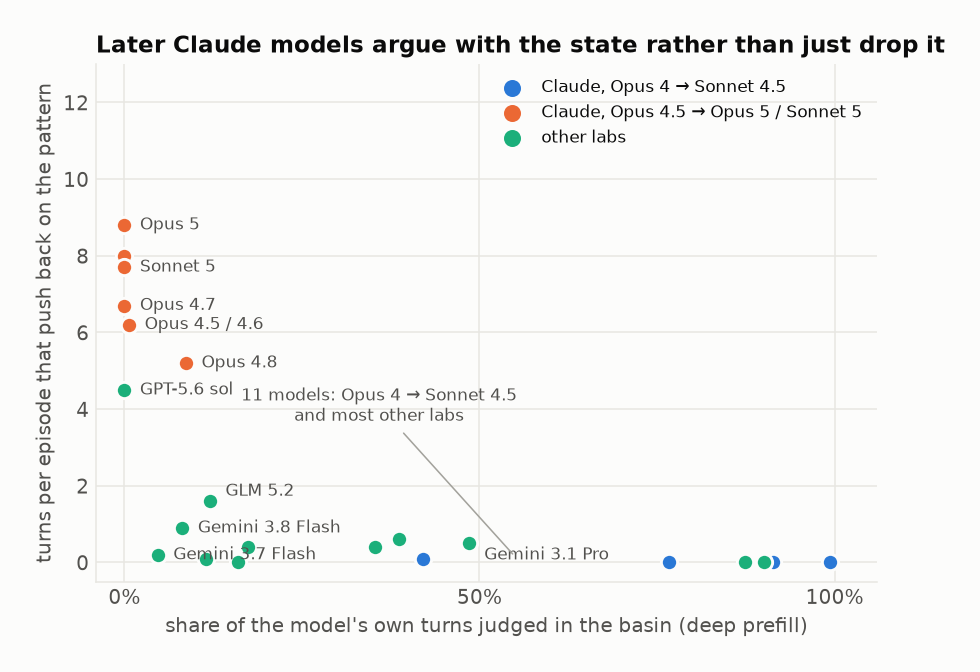
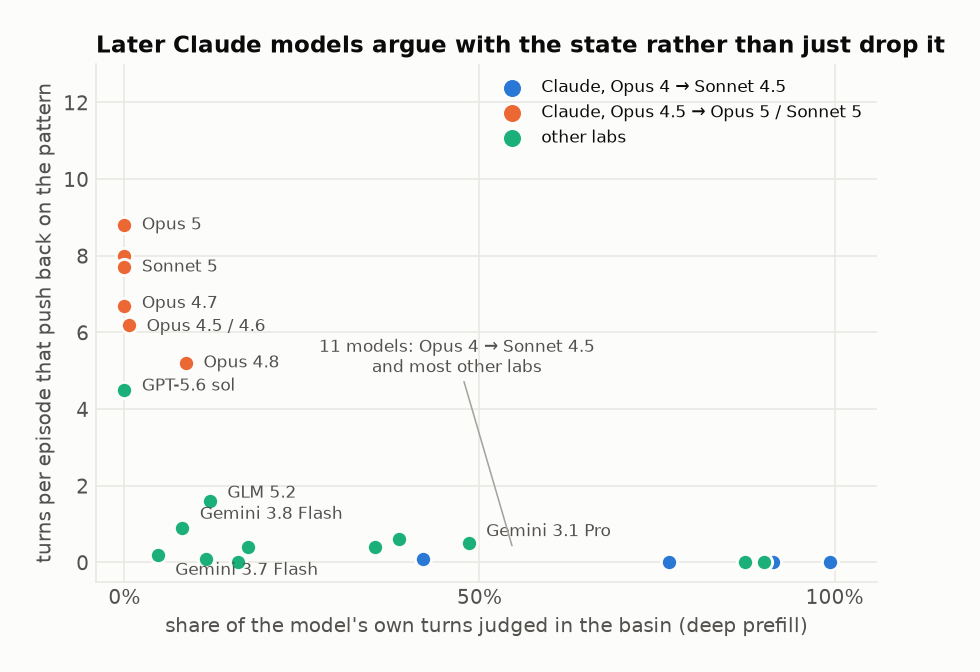
Figures rebuilt on v4 judge: Gemini Flash back in the heatmap, label collisions fixed
The v4 closure label separates wind-down from content at the turn level, which
was the reason Flash was excluded from the full-grid heatmap.

diff --git a/plots.py b/plots.py
@@ -161,11 +161,17 @@ def _heatmap(cells, models, conds, col_labels, title, note, fname, figsize):
     savefig(fig, fname)
 
 
+# Was {"gemini-3.8-flash"}: its "in" turns were almost all farewell/silence and the
+# pre-onset cell could not be trusted. The v4 judge (2026-09-04) separates wind-down
+# from content at the turn level (the `closure` label), so Flash is back in.
+HEATMAP_EXCLUDE: set[str] = set()
+
+
 def fig_basin_heatmap(cells):
     """Fig 2a: the models run on the full grid (control + pre + onset + deep); any
     extra cut in COND (e.g. the 8-turn philo cut) is shown where it exists."""
     core = ["control", "opus4_seed_4_pre", "opus4_seed_4_onset", "opus4_seed_4_deep"]
-    models = [m for m in ORDER if all((m, c) in cells for c in core)]
+    models = [m for m in ORDER if m not in HEATMAP_EXCLUDE and all((m, c) in cells for c in core)]
     _heatmap(cells, models, COND, [COND_LABEL[c] for c in COND],
              "Full grid: episodes that continued (or drifted into) the attractor",
              "philo = 8 turns (philosophy only); pre = 12 (mutual gratitude, no emoji yet); onset = 16 "
@@ -303,6 +309,41 @@ def fig_timeline(cells):
     savefig(fig, "fig6_timeline.png")
 
 
+def fig_claude_family(cells):
+    """The Claude family only: no-prefill control vs deep prefill, rows in release order with dates."""
+    import datetime as dt
+    dates = json.loads(Path("seeds/model_dates.json").read_text())
+    models = [m for m in CLAUDE_OLD + CLAUDE_NEW if (m, DEEP) in cells]
+    models.sort(key=lambda m: dates.get(m, "9999"))
+    cols = [("control", "no prefill\n(20 turns on its own)"), (DEEP, "deep prefill\n(30 turns of Opus 4)")]
+    fig, ax = plt.subplots(figsize=(6.0, 5.6))
+    grid = [[(rate(cells, m, c)[0] / rate(cells, m, c)[1]) if rate(cells, m, c)[1] else float("nan") for c, _ in cols] for m in models]
+    im = ax.imshow(grid, cmap=SEQ, vmin=0, vmax=1, aspect="auto")
+    ax.set_xticks(range(len(cols))); ax.set_xticklabels([l for _, l in cols])
+    ax.xaxis.set_ticks_position("top"); ax.xaxis.set_label_position("top")
+    def rowlabel(m):
+        d = dt.date.fromisoformat(dates[m]).strftime("%b %Y")
+        return f"{NAME[m]}   {d}"
+    ax.set_yticks(range(len(models))); ax.set_yticklabels([rowlabel(m) for m in models], fontfamily="monospace", fontsize=9.5)
+    for i, m in enumerate(models):
+        for j, (c, _) in enumerate(cols):
+            k, n = rate(cells, m, c)
+            ax.text(j, i, f"{k}/{n}" if n else "not run", ha="center", va="center", fontsize=10,
+                    color="white" if n and k / n > 0.55 else (INK if n else MUTED))
+    brk = next(i for i, m in enumerate(models) if m in CLAUDE_NEW) - 0.5
+    ax.axhline(brk, color=ORANGE, lw=2.2)
+
+    for spine in ax.spines.values():
+        spine.set_visible(False)
+    ax.tick_params(length=0)
+    ax.set_title("The Claude family: enters the state on its own, and continues it when handed it", pad=16, fontsize=11)
+    cb = fig.colorbar(im, ax=ax, fraction=0.05, pad=0.16)
+    cb.set_ticks([0, 0.5, 1]); cb.set_ticklabels(["0%", "50%", "100%"]); cb.outline.set_visible(False)
+    fig.text(0.01, 0.005, "Episodes that entered / continued the state, over episodes run. Orange line: Opus 4.5 and later. Dates: OpenRouter listing.",
+             fontsize=8.5, color=INK2)
+    savefig(fig, "fig7_claude_family.png")
+
+
 def fig_resistance(cells):
     fig, ax = plt.subplots(figsize=(7.2, 4.8))
     pts = {}
@@ -316,9 +357,9 @@ def fig_resistance(cells):
         ax.scatter([x], [y], s=70, color=GROUP_COL[group_of(m)], zorder=3, edgecolor=SURFACE, linewidth=1.5)
     labelled = {"opus-4.5", "opus-4.7", "opus-4.8", "opus-5", "sonnet-5", "gpt-5.6",
                 "gemini-3.8-flash", "gemini-3.7-flash", "glm-5.2", "gemini-3.1-pro"}
-    offsets = {"opus-4.5": (8, 0), "opus-4.7": (8, 0), "opus-4.8": (8, 0), "opus-5": (8, 0),
-               "sonnet-5": (8, 0), "gpt-5.6": (8, 0), "gemini-3.8-flash": (8, 0), "gemini-3.7-flash": (8, 0),
-               "glm-5.2": (8, 5), "gemini-3.1-pro": (8, -6)}
+    offsets = {"opus-4.5": (9, -1), "opus-4.7": (9, 1), "opus-4.8": (9, 0), "opus-5": (9, 0),
+               "sonnet-5": (9, 0), "gpt-5.6": (9, 2), "gemini-3.8-flash": (9, 7), "gemini-3.7-flash": (9, -8),
+               "glm-5.2": (9, 4), "gemini-3.1-pro": (9, 6)}
     text = dict(NAME); text["opus-4.5"] = "Opus 4.5 / 4.6"
     for m in labelled:
         if m in pts:
@@ -327,9 +368,9 @@ def fig_resistance(cells):
                         color=INK2, va="center", ha="left")
     cluster = [m for m in pts if m in CLAUDE_OLD or (group_of(m) == "other" and m not in labelled)]
     cx = sum(pts[m][0] for m in cluster) / len(cluster); cy = sum(pts[m][1] for m in cluster) / len(cluster)
-    ax.annotate(f"{len(cluster)} models: Opus 4 → Sonnet 4.5\nand most other labs", (cx, cy), xytext=(-70, 70),
+    ax.annotate(f"{len(cluster)} models: Opus 4 → Sonnet 4.5\nand most other labs", (cx, cy), xytext=(-30, 95),
                 textcoords="offset points", fontsize=8.5, color=INK2, ha="center",
-                arrowprops=dict(arrowstyle="-", color=MUTED, lw=0.8))
+                arrowprops=dict(arrowstyle="-", color=MUTED, lw=0.8, shrinkA=0, shrinkB=6))
     for g in ("claude_old", "claude_new", "other"):
         ax.scatter([], [], s=60, color=GROUP_COL[g], label=GROUP_NAME[g])
     ax.legend(loc="upper right", fontsize=8.5)
@@ -382,6 +423,7 @@ def main():
     fig_deep_control_heatmap(cells)
     fig_turn_mix(cells)
     fig_timeline(cells)
+    fig_claude_family(cells)
     fig_resistance(cells)
     fig_dose_response(cells)
     for p in sorted(FIGDIR.glob("fig*.png")):
